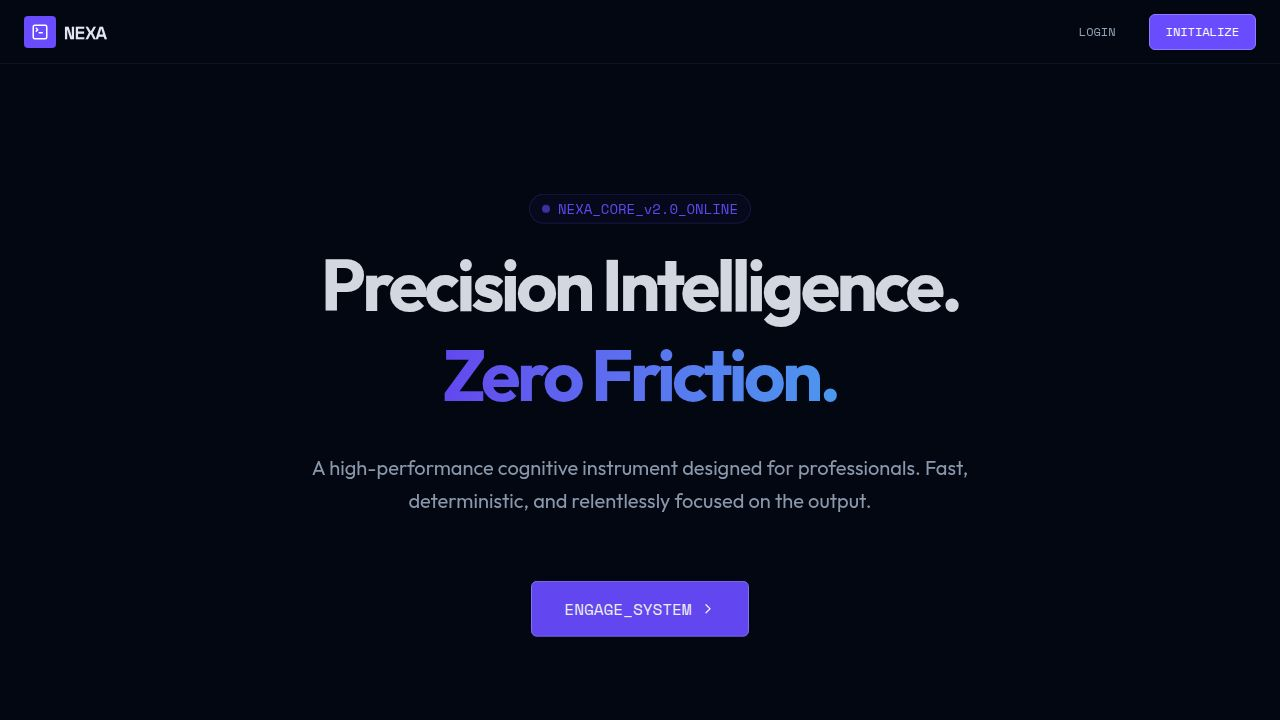
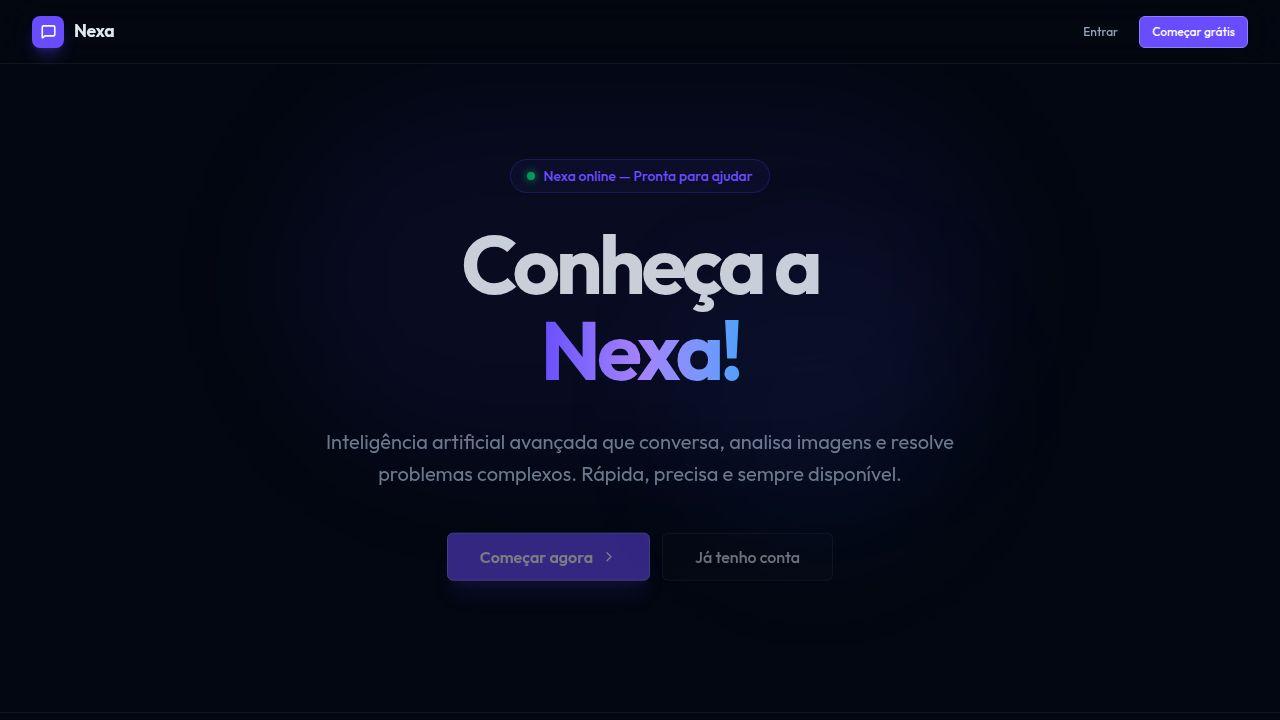
Remove error overlay that appears during development
Disable the Vite runtime error overlay plugin from vite.config.ts.

Replit-Commit-Author: Agent
Replit-Commit-Session-Id: bac20554-64e1-4993-806f-3773631e607b
Replit-Commit-Checkpoint-Type: full_checkpoint
Replit-Commit-Event-Id: ddd8689c-544d-4664-ac56-710793cb8882
Replit-Commit-Screenshot-Url: https://storage.googleapis.com/screenshot-production-us-central1/294d6959-115b-402b-bf62-1b4235400a74/bac20554-64e1-4993-806f-3773631e607b/2IL5Xjs
Replit-Helium-Checkpoint-Created: true

diff --git a/artifacts/nexa/vite.config.ts b/artifacts/nexa/vite.config.ts
@@ -2,7 +2,6 @@ import { defineConfig } from "vite";
 import react from "@vitejs/plugin-react";
 import tailwindcss from "@tailwindcss/vite";
 import path from "path";
-import runtimeErrorOverlay from "@replit/vite-plugin-runtime-error-modal";
 
 const rawPort = process.env.PORT;
 
@@ -31,7 +30,6 @@ export default defineConfig({
   plugins: [
     react(),
     tailwindcss(),
-    runtimeErrorOverlay(),
     ...(process.env.NODE_ENV !== "production" &&
     process.env.REPL_ID !== undefined
       ? [